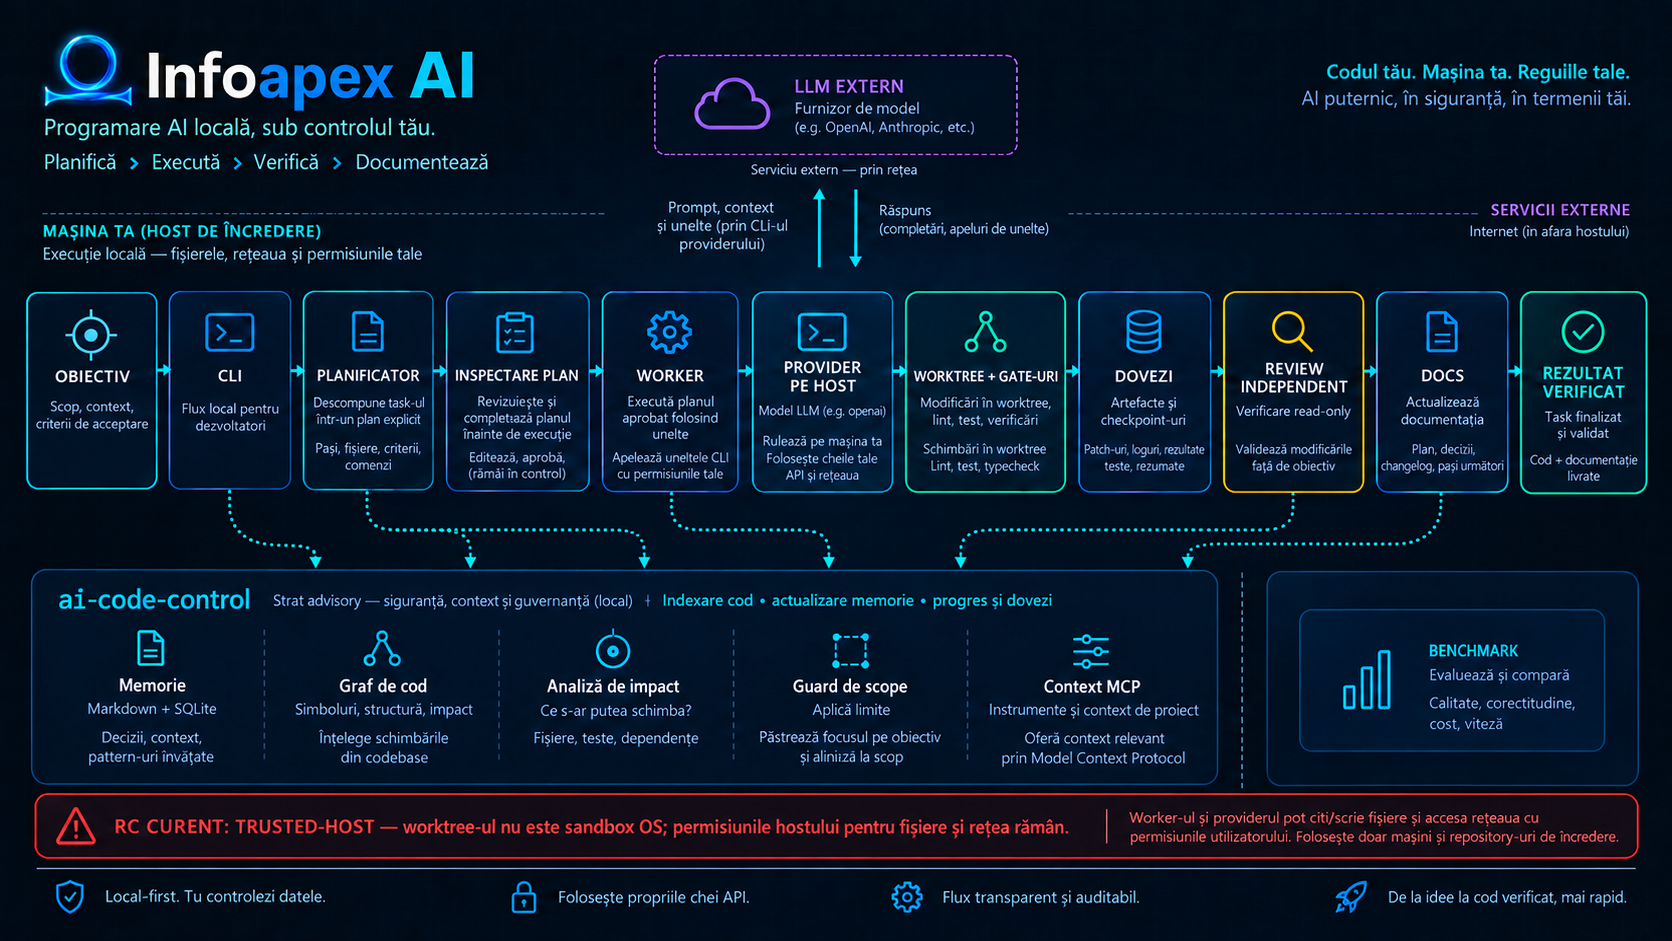
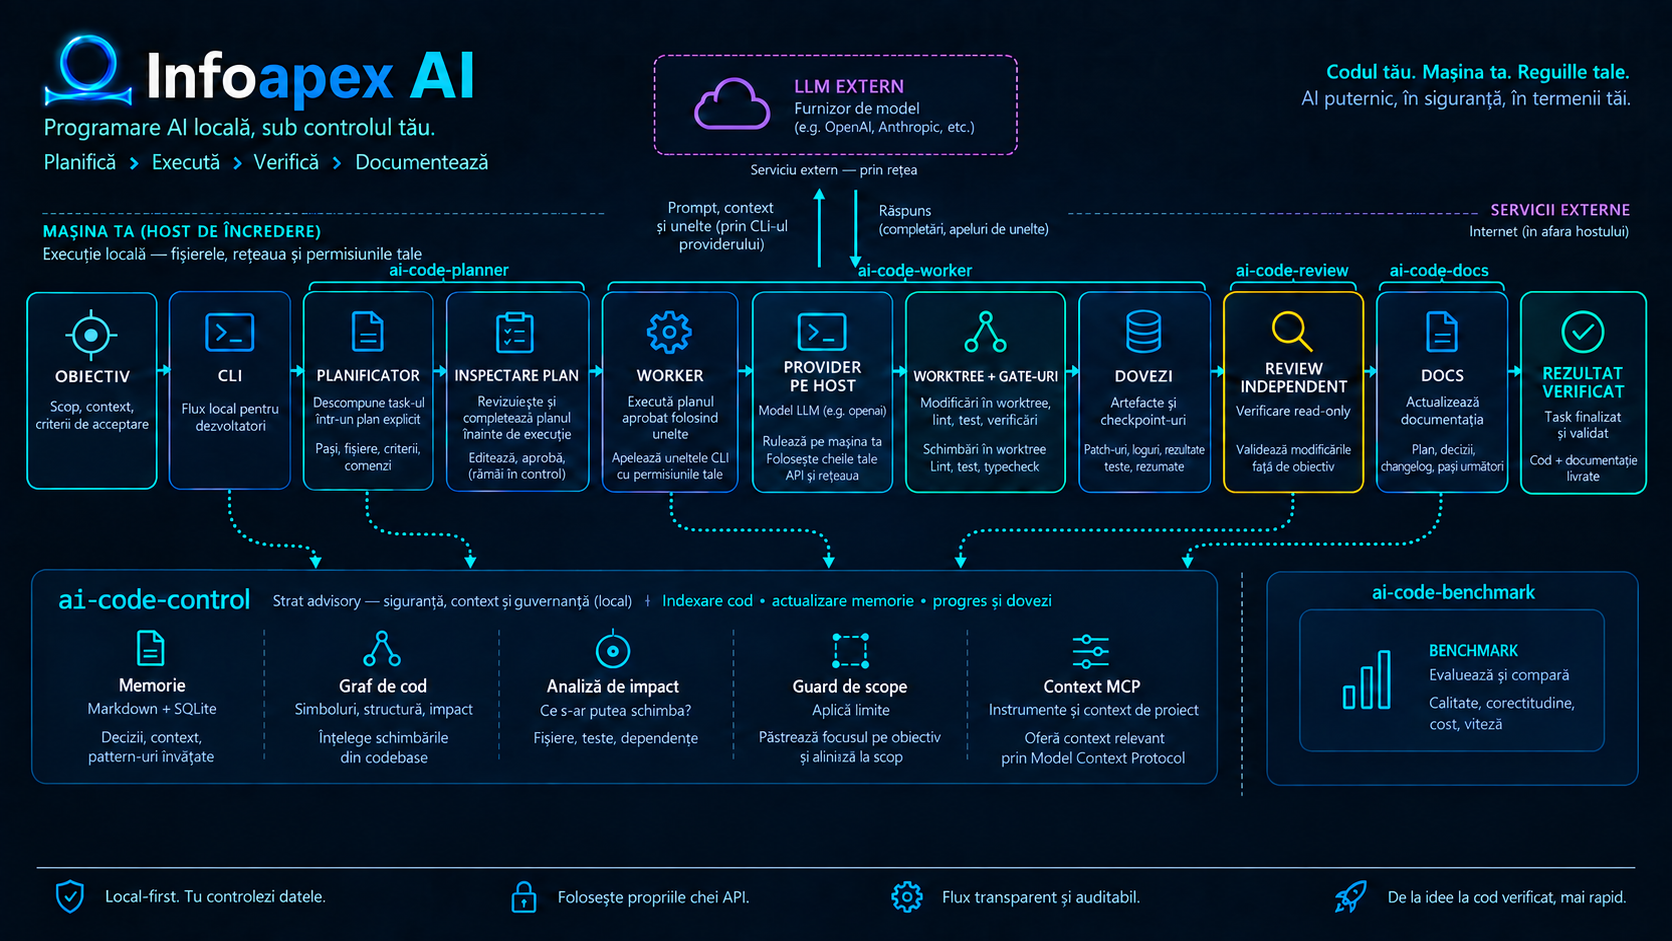
Fix cross-platform CI and promote architecture splash

diff --git a/tests/production.test.ts b/tests/production.test.ts
@@ -1,5 +1,5 @@
 import assert from "node:assert/strict";
-import { mkdirSync, mkdtempSync, readFileSync, rmSync, utimesSync, writeFileSync } from "node:fs";
+import { existsSync, mkdirSync, mkdtempSync, readFileSync, rmSync, symlinkSync, utimesSync, writeFileSync } from "node:fs";
 import { join } from "node:path";
 import { tmpdir } from "node:os";
 import { test } from "node:test";
@@ -8,6 +8,35 @@ import { defaultProductionPolicy, diagnosticsBundle, productionDoctor, productio
 test("production defaults disable external actions, export and raw conversations", () => {
   const policy = defaultProductionPolicy();
   assert.equal(policy.externalActions, "disabled"); assert.equal(policy.telemetryExport, "off"); assert.equal(policy.rawConversationStorage, false); assert.equal(policy.resources.maximumParallelWriters, 1);
+});
+
+test("diagnostics and retention accept a repository alias but reject links outside it", () => {
+  const workspace = mkdtempSync(join(tmpdir(), "infoapex-prod-alias-"));
+  const repo = join(workspace, "repository");
+  const alias = join(workspace, "alias");
+  const outside = join(workspace, "outside");
+  try {
+    mkdirSync(join(repo, ".infoapex-ai"), { recursive: true });
+    mkdirSync(outside);
+    symlinkSync(repo, alias, process.platform === "win32" ? "junction" : "dir");
+    writeFileSync(join(repo, ".infoapex-ai", "production-policy.json"), JSON.stringify(defaultProductionPolicy()));
+    const result = diagnosticsBundle(alias, ".infoapex-ai/diagnostics/alias.json");
+    assert.equal(result.status, "PASS", JSON.stringify(result));
+    const evidence = join(repo, ".infoapex-ai", "diagnostics", "alias.json");
+    const old = new Date(Date.now() - 31 * 86_400_000);
+    utimesSync(evidence, old, old);
+    assert.equal(retention(alias, false).status, "PASS");
+    assert.equal(existsSync(evidence), false);
+    symlinkSync(outside, join(repo, "escape"), process.platform === "win32" ? "junction" : "dir");
+    assert.equal(diagnosticsBundle(alias, "escape/bundle.json").code, "PATH_UNSAFE");
+    assert.equal(existsSync(join(outside, "bundle.json")), false);
+    symlinkSync(outside, join(repo, ".infoapex-ai", "telemetry"), process.platform === "win32" ? "junction" : "dir");
+    const sentinel = join(outside, "keep.json");
+    writeFileSync(sentinel, "keep");
+    utimesSync(sentinel, old, old);
+    assert.equal(retention(alias, false).code, "PATH_UNSAFE");
+    assert.equal(readFileSync(sentinel, "utf8"), "keep");
+  } finally { rmSync(workspace, { recursive: true, force: true }); }
 });
 
 test("production doctor fails closed without policy", () => {

diff --git a/tests/cli.test.ts b/tests/cli.test.ts
@@ -1,16 +1,17 @@
 import assert from "node:assert/strict";
 import { execFileSync } from "node:child_process";
 import { existsSync, mkdirSync, mkdtempSync, readFileSync, rmSync, writeFileSync } from "node:fs";
-import { join, resolve } from "node:path";
+import { delimiter, join, resolve } from "node:path";
 import { tmpdir } from "node:os";
 import { test } from "node:test";
 
 const cliPath = resolve("dist/src/cli.js");
 
-function runCli(repositoryPath: string, args: string[]): { status: number; stdout: string; stderr: string } {
+function runCli(repositoryPath: string, args: string[], env = process.env): { status: number; stdout: string; stderr: string } {
   try {
     const stdout = execFileSync(process.execPath, [cliPath, ...args], {
       cwd: repositoryPath,
+      env,
       encoding: "utf8",
       stdio: ["ignore", "pipe", "pipe"]
     });
@@ -130,7 +131,12 @@ test("full installer creates a reusable .NET/Next.js profile without module-rela
     writeFileSync(join(repository, "server", "Product.Api", "Program.cs"), 'System.Console.WriteLine("ok");\n');
     writeFileSync(join(repository, "client", "package.json"), JSON.stringify({ scripts: { build: "node -e \"process.exit(0)\"", typecheck: "node -e \"process.exit(0)\"" } }));
     initializeGit(repository);
-    const init = runCli(repository, ["init", "--repo", repository, "--mode", "integrated", "--full", "--profile", "dotnet-nextjs", "--backend-dir", "server", "--frontend-dir", "client", "--ml-dir", "data", "--verify"]);
+    // Exercise real module wiring without depending on an installed provider.
+    // The fixture exposes metadata only and refuses all execution requests.
+    const env = { ...process.env };
+    const pathKey = Object.keys(env).find((key) => key.toLowerCase() === "path") ?? "PATH";
+    env[pathKey] = `${resolve("scripts/fixtures/codex-doctor")}${delimiter}${env[pathKey] ?? ""}`;
+    const init = runCli(repository, ["init", "--repo", repository, "--mode", "integrated", "--full", "--profile", "dotnet-nextjs", "--backend-dir", "server", "--frontend-dir", "client", "--ml-dir", "data", "--verify"], env);
     assert.equal(init.status, 0, init.stderr || init.stdout);
     const body = JSON.parse(init.stdout) as { status: string; profile: string; created: readonly string[]; postInstallVerification?: { status: string; checks: readonly { id: string; status: string }[] } };
     assert.equal(body.status, "DONE");

diff --git a/src/production.ts b/src/production.ts
@@ -117,6 +117,6 @@ function isObject(value: unknown): value is Record<string, unknown> { return val
 function hash(value: string | Buffer): string { return createHash("sha256").update(value).digest("hex"); }
 function readPolicy(repo: string): ProductionPolicy | null { const value = jsonFile(join(repo, ".infoapex-ai", "production-policy.json")); return value as ProductionPolicy | null; }
 function isInside(root: string, path: string): boolean { const rel = relative(resolve(root), resolve(path)); return rel === "" || (rel !== ".." && !rel.startsWith(`..${sep}`) && !isAbsolute(rel)); }
-function safeExistingPath(repo: string, path: string): boolean { try { return isInside(repo, realPath(path)); } catch { return false; } }
+function safeExistingPath(repo: string, path: string): boolean { try { return isInside(realPath(repo), realPath(path)); } catch { return false; } }
 function safeExistingParent(repo: string, path: string): boolean { const parent = dirname(path); return existsSync(parent) ? safeExistingPath(repo, parent) : safeExistingParent(repo, parent); }
 function realPath(path: string): string { lstatSync(path); return realpathSync(path); }

diff --git a/README.md b/README.md
@@ -1,5 +1,5 @@
 <p align="center">
-  <img src="docs/assets/infoapex-ai-splash-architecture.png"
+  <img src="docs/assets/infoapex-ai-current-architecture-illustrated-ro-control-flow.png"
        alt="Infoapex AI — control plane local pentru agenți de programare: obiectiv, planner, worker, review, docs și țintă verificată"
        width="100%">
 </p>
@@ -76,15 +76,6 @@ Modulele sunt CLI-uri care comunică prin JSON și fișiere, nu servicii permane
 Săgețile continue arată comenzi sau rezultate; cele punctate arată context și
 feedback. Albastru = coordonare, verde = execuție, mov = context/evaluare,
 portocaliu = verificare, roșu = limită de încredere.
-
-<p align="center">
-  <img src="docs/assets/infoapex-ai-current-architecture-illustrated-ro-control-flow.png"
-       alt="Ilustrație în română a arhitecturii curente Infoapex AI trusted-host, cu progresul modulelor către ai-code-control"
-       width="100%">
-</p>
-
-Imaginea este o vedere ilustrată; diagrama Mermaid de mai jos rămâne reprezentarea
-exactă și editabilă a relațiilor dintre componente.
 
 ```mermaid
 %%{init: {'theme':'default','flowchart':{'curve':'basis','nodeSpacing':24,'rankSpacing':36}}}%%
@@ -659,16 +650,17 @@ infoapex-ai/
 ## Identitate vizuală
 
 Infograficul de mai sus și assets-urile de logo sunt în [`docs/assets/`](docs/assets/),
-cu [nota lor tehnică](docs/assets/README.md). Se regenerează cu:
+cu [nota lor tehnică](docs/assets/README.md). Splash screen-ul curent este imaginea
+ilustrată în română, cu modulele etichetate. Generatorul variantei vectoriale
+anterioare și al logo-urilor rămâne disponibil:
 
 ```bash
 npm run generate:splash
 ```
 
 Generatorul este **doar design-time** — nimic din bundle-ul livrat nu depinde de el.
-Textul din SVG este convertit în contururi, deci imaginile nu depind de fonturi
-instalate; Chromium și Edge le randează identic, iar PNG-urile sunt rasterizate din
-exact aceleași SVG-uri.
+Textul variantei SVG este convertit în contururi. Comanda nu regenerează și nu
+suprascrie splash screen-ul ilustrat curent.
 
 ## Securitate și contribuții
 

diff --git a/.ai-code-control/memory/tasks/2026-09-17-splash-ci.md b/.ai-code-control/memory/tasks/2026-09-17-splash-ci.md
@@ -1,0 +1,21 @@
+# Splash screen and cross-platform CI repair
+
+Date: 2026-09-17
+Review: authoring agent reviewed the diff, image placement and regression tests; no independent review claimed.
+
+## Changes
+- Promoted the approved Romanian illustration to the README splash and removed its duplicate from the current-architecture section, preserving Mermaid and explanations.
+- Documented the distinction between the current raster artwork and the older vector generator.
+- Diagnosed failed CI run 35241880821: installer verification depended on an installed Codex executable; offline package installation required uncached registry metadata; macOS temporary-directory aliases failed canonical-path containment.
+- Added metadata-only doctor fixtures which refuse execution; used them only in installer and ZIP smoke tests. Production readiness checks remain unchanged.
+- Reused reviewed package-lock resolutions for a fresh offline artifact installation, preserving lifecycle-script restrictions.
+- Compared canonical repository and target paths, with regression coverage for repository aliases and escaping directory links.
+- Preserved executable file permissions when extracting the committed ZIP.
+
+## Validation
+- Root npm test: 81 passed, zero failed (includes full bundle build).
+- Production regression suite: 8 passed; offline package smoke passed.
+- Module provenance, generic boundary and git diff --check passed.
+- Code graph inspected diagnostics, path containment and CLI test callers; JavaScript script symbols were not indexed, so direct inspection was used without claiming graph evidence.
+- Trace query returned not_found with an empty graph and no fallback; no trace sources are declared.
+- Remote six-job CI validation pending at this checkpoint.

diff --git a/docs/assets/README.md b/docs/assets/README.md
@@ -2,14 +2,17 @@
 
 | Fișier | Dimensiune | Utilizare |
 |---|---|---|
-| `infoapex-ai-splash-architecture.svg` | 1672 × 941 | infografic principal |
-| `infoapex-ai-splash-architecture.png` | 1672 × 941 | hero-ul din README |
+| `infoapex-ai-current-architecture-illustrated-ro-control-flow.png` | 1672 × 941 | splash screen-ul curent din README, cu modulele etichetate |
+| `infoapex-ai-splash-architecture.svg` | 1672 × 941 | varianta vectorială anterioară |
+| `infoapex-ai-splash-architecture.png` | 1672 × 941 | rasterizarea variantei vectoriale anterioare |
 | `infoapex-logo.png` / `.svg` | 327 × 271, RGBA | marca InfoApex, fundal transparent |
 | `infoapex-logo-lockup.png` / `.svg` | 1144 × 281, RGBA | marca + wordmark, transparent |
 | `src/` | — | randările sursă ale logo-ului, înainte de cheiere |
 
-PNG-ul infograficului este sub limita de 1 MB a GitHub, deci poate fi folosit și
-ca social preview al repository-ului.
+Splash screen-ul curent este un PNG ilustrat, editat cu ImageGen. Apare o singură
+dată, la începutul README-ului; secțiunea arhitecturii curente păstrează Mermaid-ul
+și explicațiile. Generatorul de mai jos păstrează varianta vectorială anterioară
+și nu suprascrie imaginea curentă.
 
 ## Regenerare
 

diff --git a/.ai-code-control/memory/tasks/2026-09-17-architecture-image-cleanup.md b/.ai-code-control/memory/tasks/2026-09-17-architecture-image-cleanup.md
@@ -1,0 +1,13 @@
+# Architecture image cleanup
+
+Date: 2026-09-17
+Review: authoring agent visually inspected the generated image; no independent review claimed.
+
+- Updated only the Romanian current-architecture control-flow PNG.
+- Removed the red warning banner and the duplicate planner-to-control branch.
+- Added module ownership labels for planner, worker, review, docs and benchmark.
+- Built-in imagegen edit prompt: preserve the original infographic; remove the red banner; keep one planner-to-control arrow; place module labels above their card groups.
+- Visual inspection confirmed all three requested changes and retained the other connectors.
+- git diff --check passed. run-validation skipped because no toolchains are enabled; no runtime tests claimed.
+- No existing code changed, so symbol lookup and impact analysis were not applicable. No trace source manifest is declared; no release was performed.
+- Refreshed memory and code indexes scoped to docs/assets. Pre-existing untracked files were left untouched.
